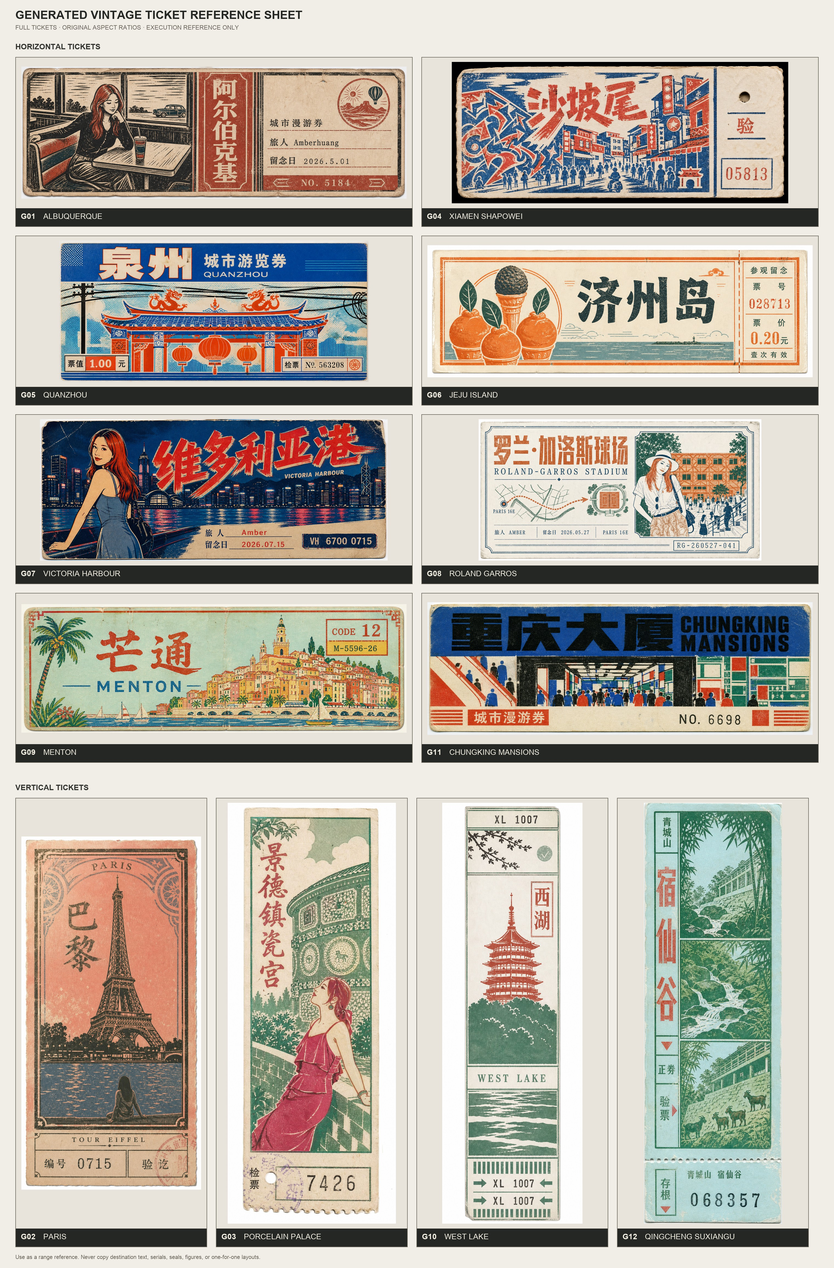
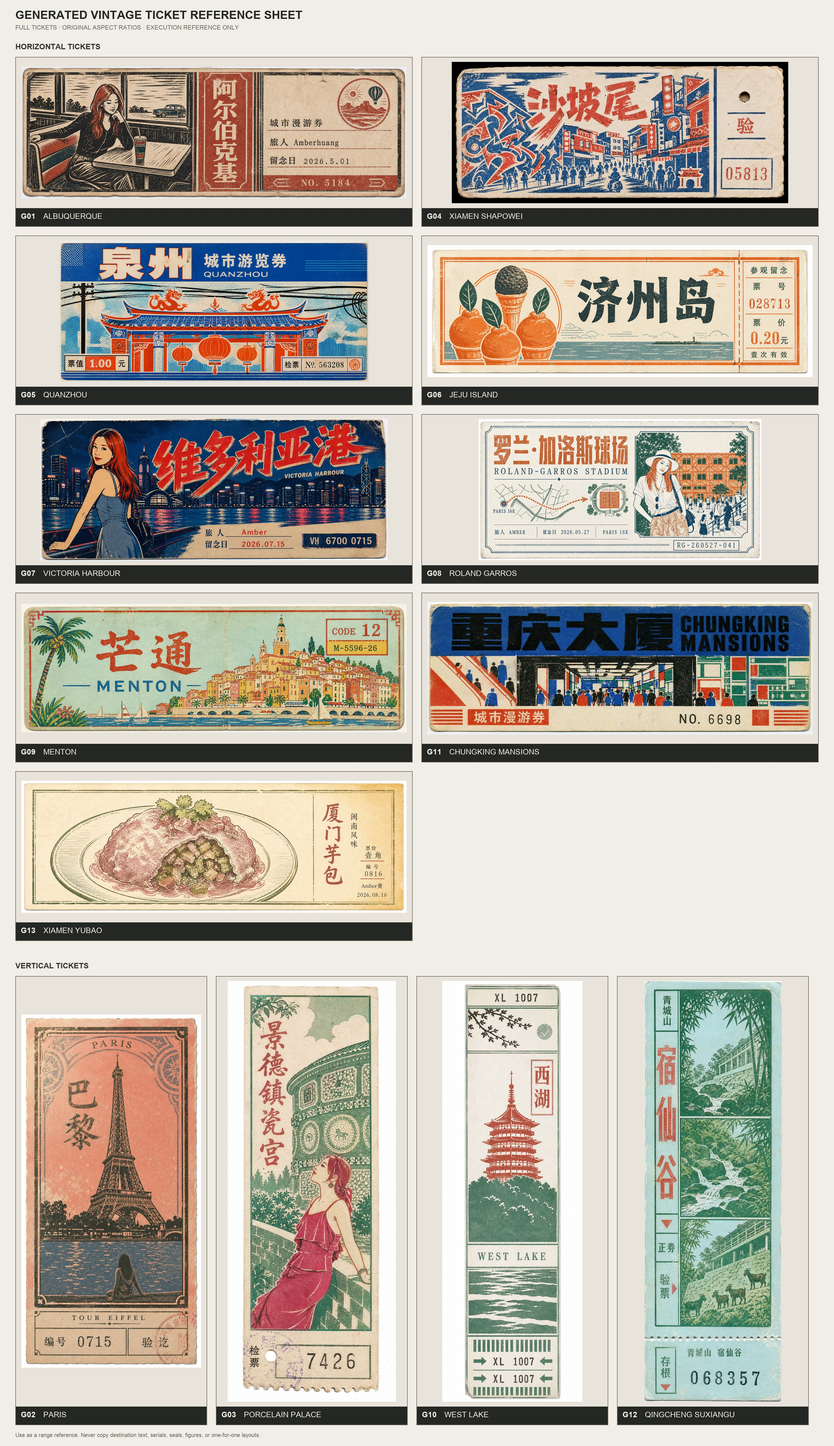
Add Xiamen yubao ticket showcase

diff --git a/scripts/build_public_generated_library.py b/scripts/build_public_generated_library.py
@@ -42,6 +42,7 @@ ENTRIES = (
     Entry("G10", "west-lake", "西湖", "西湖原照片.JPG", "西湖老门票.png", ("M",)),
     Entry("G11", "chungking-mansions", "重庆大厦", "重庆大厦原照片.JPG", "重庆大厦老门票.png", ("B", "H")),
     Entry("G12", "qingcheng-suxiangu", "青城山宿仙谷", "青城山宿仙谷原照片.JPG", "青城山宿仙谷老门票.png", ("P",)),
+    Entry("G13", "xiamen-yubao", "厦门芋包", None, "厦门芋包老门票.png", ("F",)),
 )
 
 

diff --git a/README.md b/README.md
@@ -109,6 +109,12 @@ git clone https://github.com/hongfamonvAI/vintage-travel-ticket.git \
 | --- | --- |
 | <img src="examples/quanzhou-source.jpg" width="300" alt="Quanzhou source photo"> | <img src="examples/quanzhou-ticket.jpg" width="500" alt="Quanzhou vintage ticket"> |
 
+### 厦门芋包
+
+仅展示生成门票；原始美食照片不进入仓库或公开风格素材库。
+
+<img src="examples/xiamen-yubao-ticket.jpg" width="700" alt="Xiamen yubao vintage ticket">
+
 ## 目录
 
 ```text
